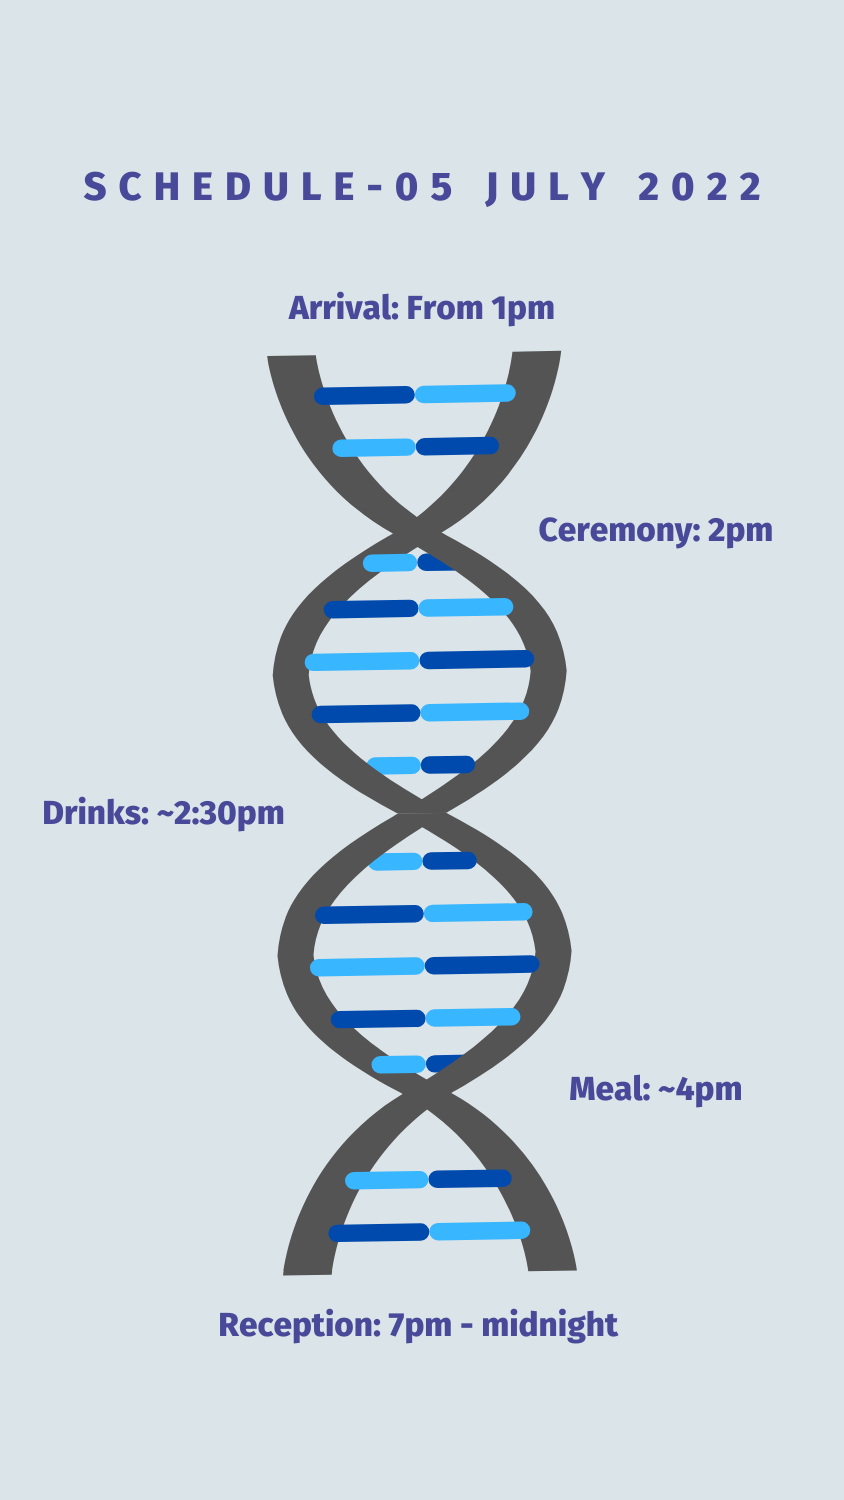
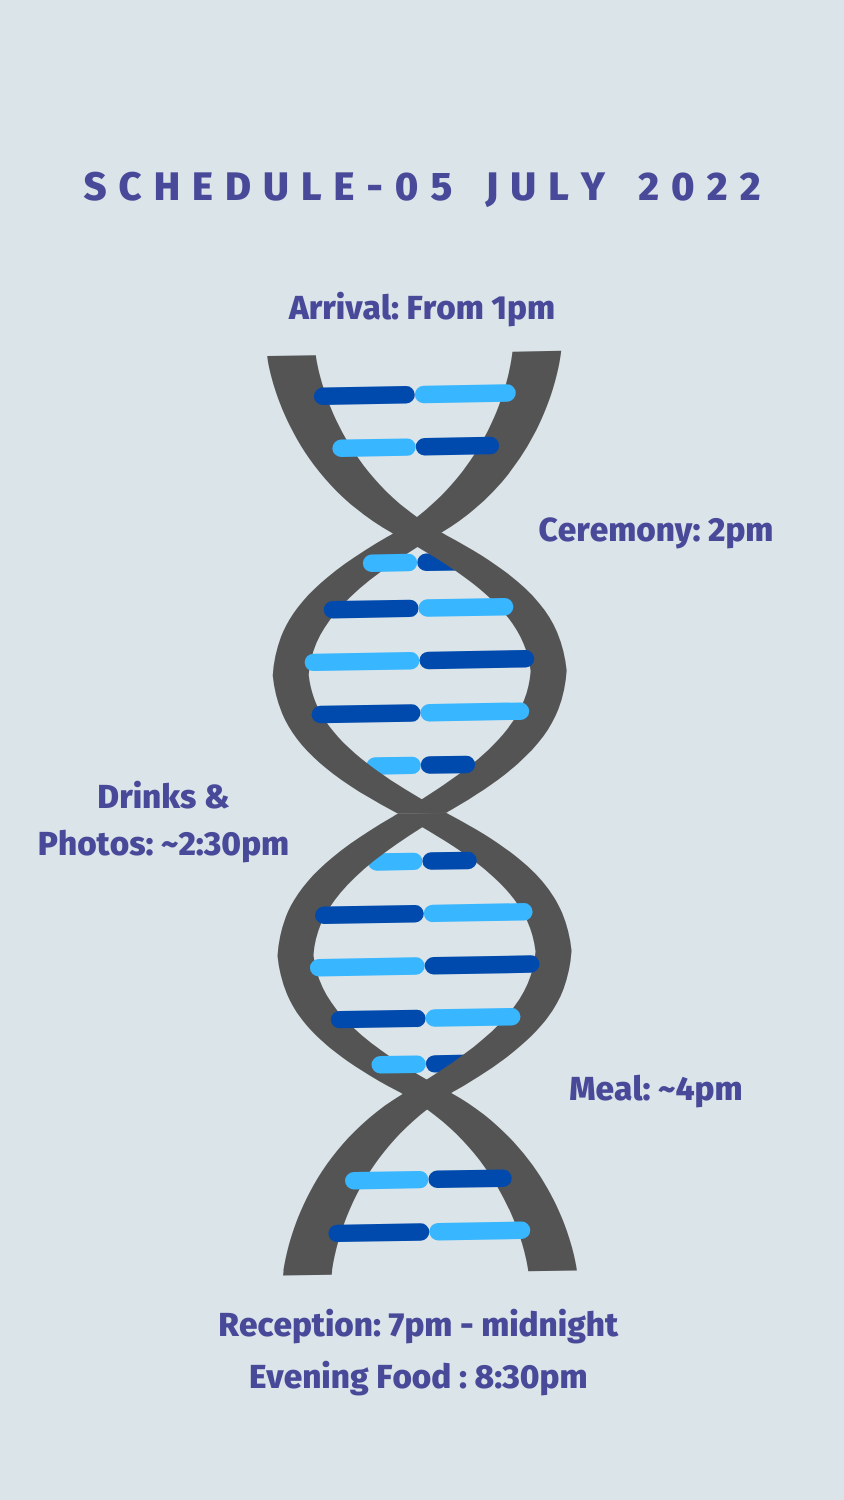
New scheduleand section
Added new wedding schedule and new section outlining notes for the day.

Changed region(s): [[0.2773, 0.8893, 0.7085, 0.9507], [0.0308, 0.5213, 0.3389, 0.5827]]

diff --git a/index.html b/index.html
@@ -271,7 +271,7 @@
         </div><!-- /.modal-dialog -->
     </div><!-- /.modal -->
 
-    <div class="container">
+    <div class="container"> 
         <div class="row">
             <div class="col-md-6 col-md-offset-3">
                 <h4>We would greatly appreciate if you could <strong>RSVP</strong> by the 12th of April <strong>if you are going to attend</strong>.</h4>
@@ -338,6 +338,18 @@
                 <h3>Schedule</h3>
                 <p>Click the following button to view the current schedule which may be liable to change. The image can be downloaded to your device.</p>
                 <a href="https://raw.githubusercontent.com/adambaskerville/wedding-website/master/img/wedding_schedule.png" class="btn btn-accent btn-small" target="_blank"><i class="fa fa-globe"></i>&nbsp;&nbsp;Schedule</a>
+            </div>
+        </div>
+    </div>
+</section>
+
+<section id="notes" class="section-padding">
+    <div class="container">
+        <div class="row">
+            <div class="col-md-12 text-center">
+                <h3>Notes for day</h3>
+                <p>Confetti will be provided so there is no need to bring your own.</p>
+                <p>The venue only accepts payment using cards, so no need to bring money.</p>
             </div>
         </div>
     </div>
